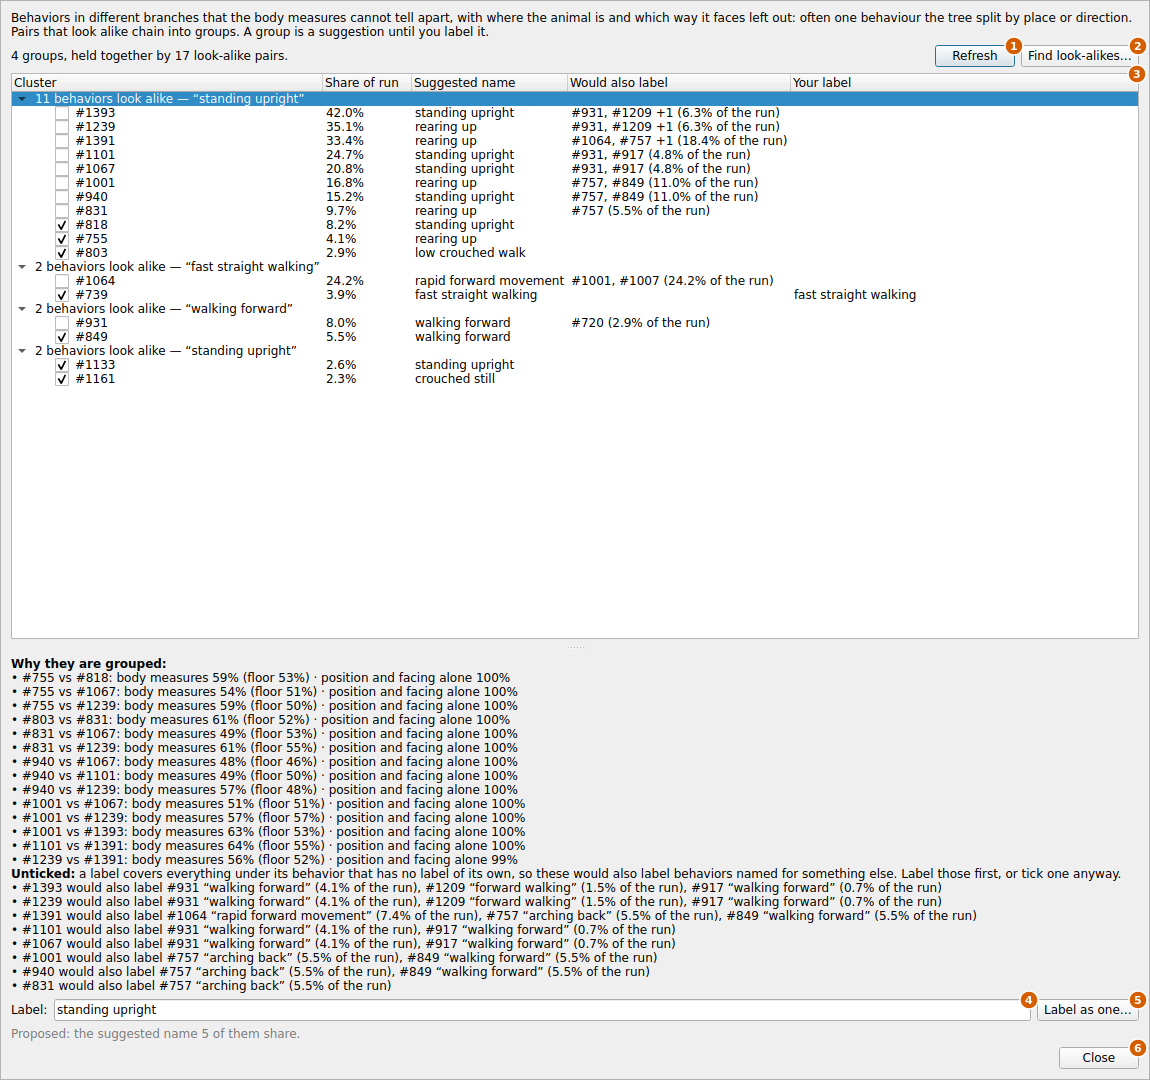
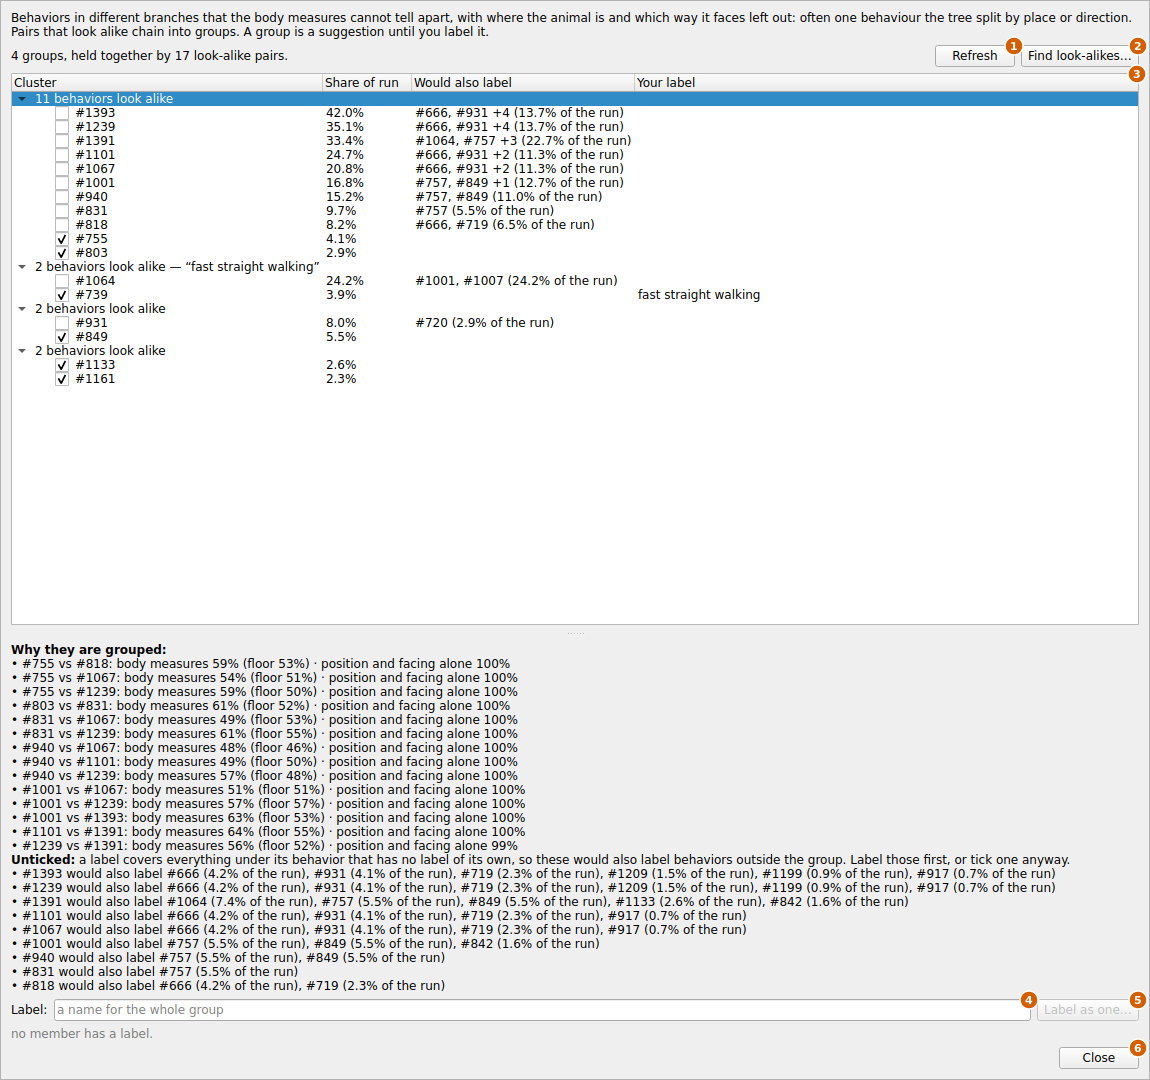
Clustering chapter: redraw the look-alike window without suggested names
The single-animal build has no Describe, so the window has no Suggested name column and a
group proposes a name only from its clusters' labels. Redrawn from the hot plate clustering
an_17 (gen_docs_screens.py lookalikes); the alt text and legend say the label box is empty.

diff --git a/docs/user-guides/single-animal/clustering.md b/docs/user-guides/single-animal/clustering.md
@@ -451,11 +451,11 @@ Choose **Cluster tools ▾** › **Look-alike behaviors…**. The window opens b
 from a clustering of the isometric hot plate experiment, whose clusters have been
 compared: the demo's clusters all tell apart (see the note below).
 
-![The Look-alike behaviors window for a hot plate clustering: 4 groups held together by 17 look-alike pairs, the largest, 11 behaviors that look alike as "standing upright", with each cluster's share of the run, what its label would also cover and your label; under them, why they are grouped, pair by pair, and the label box filled in with standing upright and the Label as one button. Numbered markers sit on every control.](../../assets/user-guides/single-animal/clustering/lookalikes.png)
+![The Look-alike behaviors window for a hot plate clustering: 4 groups held together by 17 look-alike pairs, the largest, 11 behaviors that look alike, with each cluster's share of the run, what its label would also cover and your label; under them, why they are grouped, pair by pair, and the label box, empty because none of the 11 has a label yet, with the Label as one button. Numbered markers sit on every control.](../../assets/user-guides/single-animal/clustering/lookalikes.png)
 
 ??? info "What everything on this screen does"
-    Each group is listed with the name it proposes, then its clusters, largest first: its
-    share of the run, what its label **would also label**, and your label if it has one. **Why they are grouped** gives, for every pair, how well the body
+    Each group is listed with the name it proposes, when one of its clusters has a label,
+    then its clusters, largest first: its share of the run, what its label **would also label**, and your label if it has one. **Why they are grouped** gives, for every pair, how well the body
     measures told it apart against chance (*body measures 51% (floor 51%)*: no better than
     chance, so alike) and how well position and facing alone did (*100%*: they differ only
     in where and which way).
